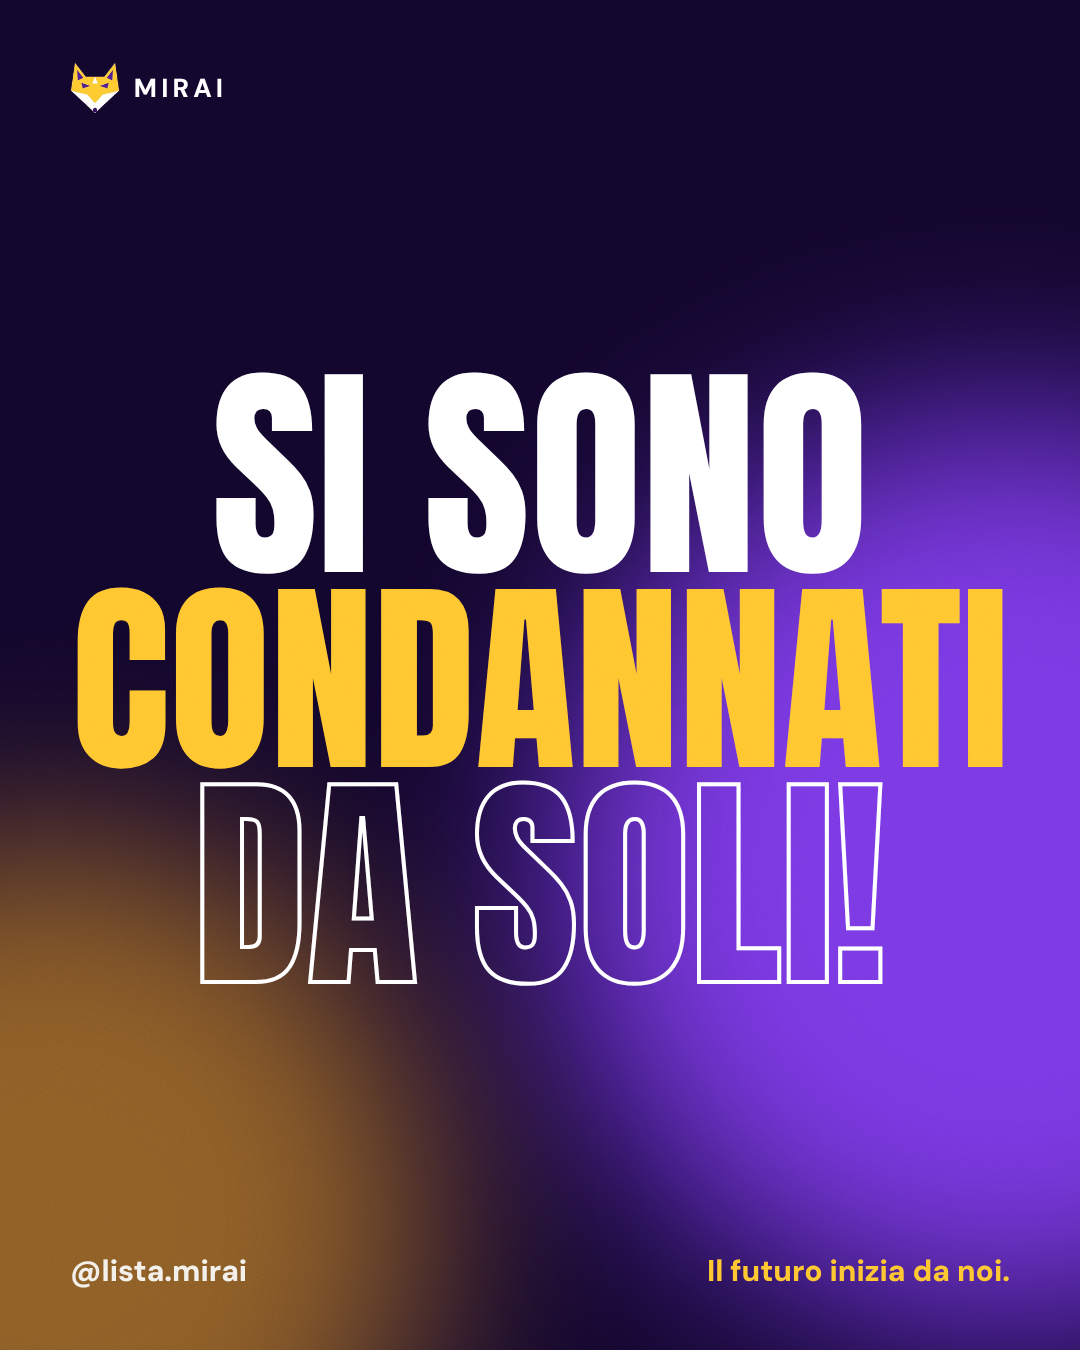
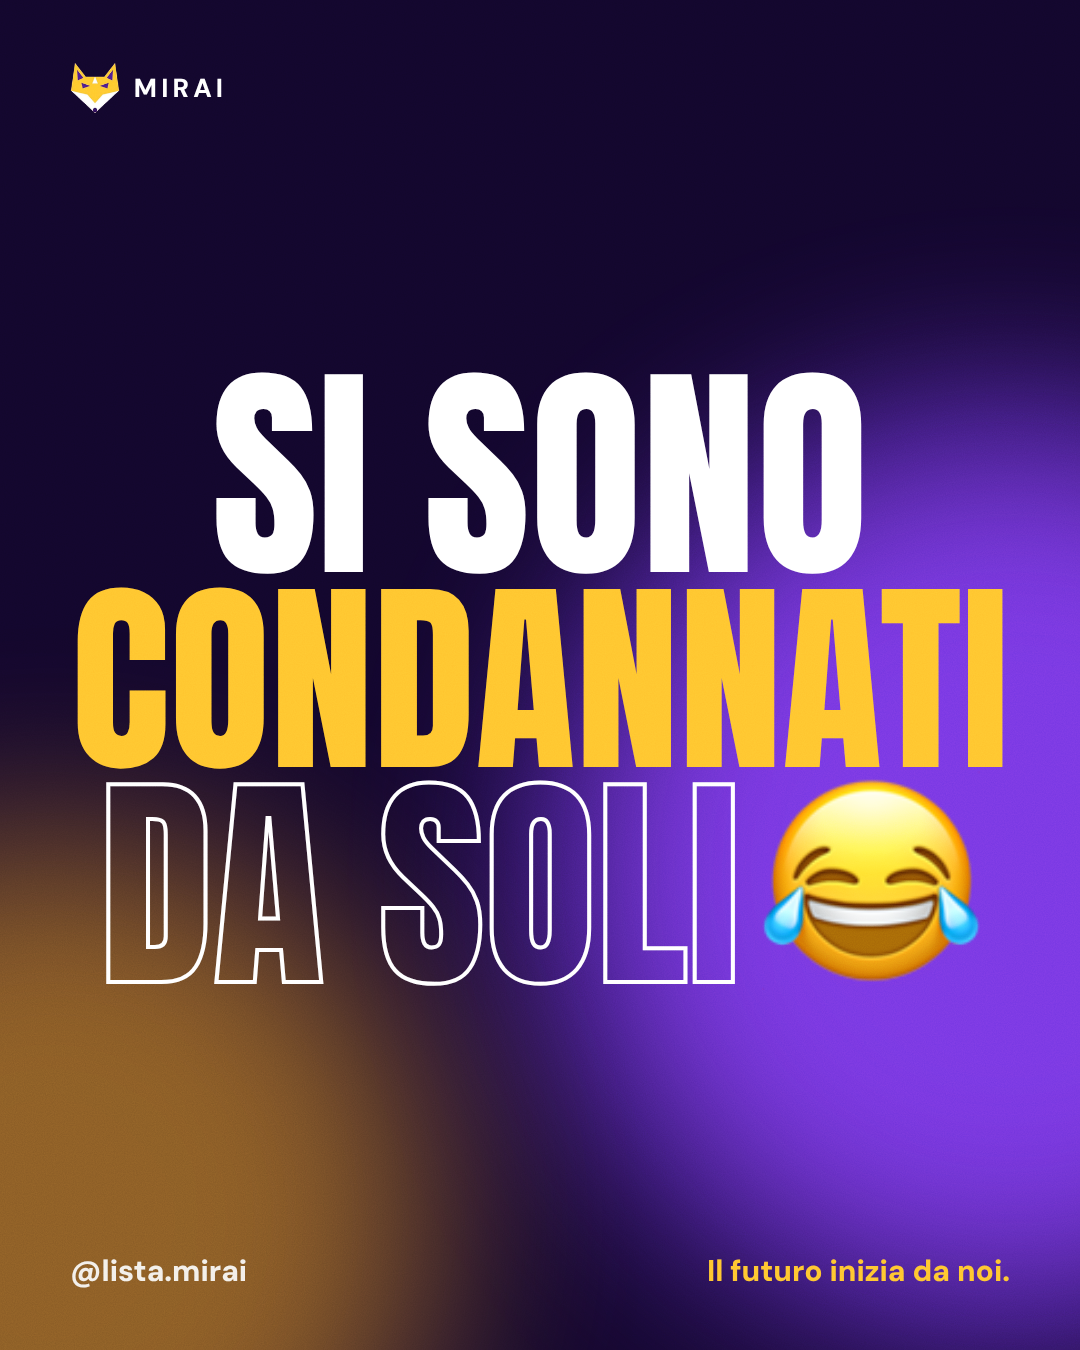
Grafica 'Si sono condannati da soli' con emoji Apple che ride al posto del punto esclamativo
Claude-Session: https://claude.ai/code/session_01R2EF8p8tCb9WtiTgwavMfk

Changed region(s): [[0.0917, 0.56, 0.9167, 0.7467]]

diff --git a/social/campagna/condannati.html b/social/campagna/condannati.html
@@ -35,4 +35,4 @@ body{background:#000;font-family:"DM Sans",sans-serif}
 .strike{position:relative;display:inline-block}.strike::after{content:"";position:absolute;left:-2%;right:-2%;top:52%;height:14px;background:var(--gold);transform:rotate(-3deg);border-radius:4px}
 .ghost{color:transparent;-webkit-text-stroke:4px rgba(255,255,255,.55)}
 .sec .h{font:400 30px "Anton";color:var(--gold);letter-spacing:.08em}
-</style></head><body><section class="c p v0" id="p"><div class="blob b1"></div><div class="blob b2"></div><div class="brand"><img src="../../assets/fox-96.png" alt="">Mirai</div><div class="ctr"><div class="h" style="display:flex;flex-direction:column;align-items:center;gap:2px"><div class="A w" data-max="230">Si sono</div><div class="A g" data-max="260">condannati</div><div class="A o" data-max="230">da soli!</div></div></div><div class="handle"><span>@lista.mirai</span><b>Il futuro inizia da noi.</b></div></section><section class="c s v1" id="s"><div class="blob b1"></div><div class="blob b2"></div><div class="brand"><img src="../../assets/fox-96.png" alt="">Mirai</div><div class="ctr"><div class="h" style="display:flex;flex-direction:column;align-items:center;gap:2px"><div class="A w" data-max="230">Si sono</div><div class="A g" data-max="260">condannati</div><div class="A o" data-max="230">da soli!</div></div></div><div class="handle"><span>@lista.mirai</span><b>Il futuro inizia da noi.</b></div></section><script>document.fonts.load('100px Anton').then(()=>document.fonts.ready).then(()=>{document.querySelectorAll('[data-max]').forEach(e=>{const m=document.createElement('span');m.style.cssText='position:absolute;left:-9999px;visibility:hidden;white-space:nowrap;text-transform:uppercase;font-family:Anton,Impact,sans-serif;line-height:1;font-size:'+e.dataset.max+'px';m.textContent=e.textContent;document.body.appendChild(m);const w=m.getBoundingClientRect().width;m.remove();e.style.fontSize=Math.min(+e.dataset.max,Math.floor(e.dataset.max*940/w))+'px'});document.body.dataset.ready=1})</script></body></html>
+</style></head><body><section class="c p v0" id="p"><div class="blob b1"></div><div class="blob b2"></div><div class="brand"><img src="../../assets/fox-96.png" alt="">Mirai</div><div class="ctr"><div class="h" style="display:flex;flex-direction:column;align-items:center;gap:2px"><div class="A w" data-max="230">Si sono</div><div class="A g" data-max="260">condannati</div><div class="A o" data-max="230" style="display:flex;align-items:center;justify-content:center;gap:22px"><span class="tx">da soli</span><img src="img/apple-joy.png" style="height:.95em;width:.95em;margin-top:-.04em"></div></div></div><div class="handle"><span>@lista.mirai</span><b>Il futuro inizia da noi.</b></div></section><section class="c s v1" id="s"><div class="blob b1"></div><div class="blob b2"></div><div class="brand"><img src="../../assets/fox-96.png" alt="">Mirai</div><div class="ctr"><div class="h" style="display:flex;flex-direction:column;align-items:center;gap:2px"><div class="A w" data-max="230">Si sono</div><div class="A g" data-max="260">condannati</div><div class="A o" data-max="230" style="display:flex;align-items:center;justify-content:center;gap:22px"><span class="tx">da soli</span><img src="img/apple-joy.png" style="height:.95em;width:.95em;margin-top:-.04em"></div></div></div><div class="handle"><span>@lista.mirai</span><b>Il futuro inizia da noi.</b></div></section><script>document.fonts.load('100px Anton').then(()=>document.fonts.ready).then(()=>{document.querySelectorAll('[data-max]').forEach(e=>{const m=document.createElement('span');m.style.cssText='position:absolute;left:-9999px;visibility:hidden;white-space:nowrap;text-transform:uppercase;font-family:Anton,Impact,sans-serif;line-height:1;font-size:'+e.dataset.max+'px';m.textContent=e.textContent;document.body.appendChild(m);let w=m.getBoundingClientRect().width;m.remove();if(e.querySelector('img'))w+=e.dataset.max*1.15;e.style.fontSize=Math.min(+e.dataset.max,Math.floor(e.dataset.max*940/w))+'px'});document.body.dataset.ready=1})</script></body></html>
